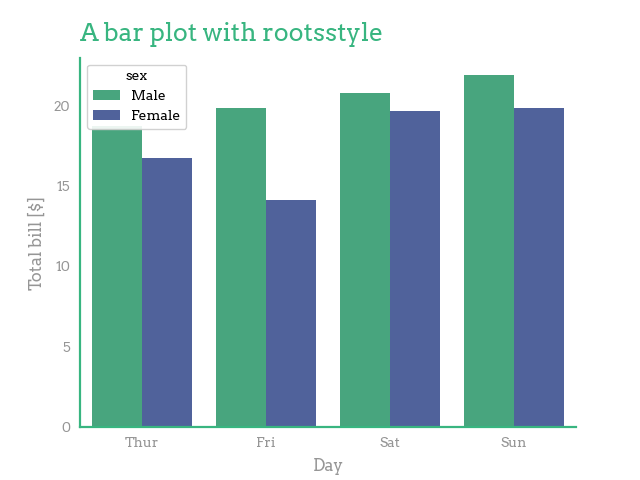
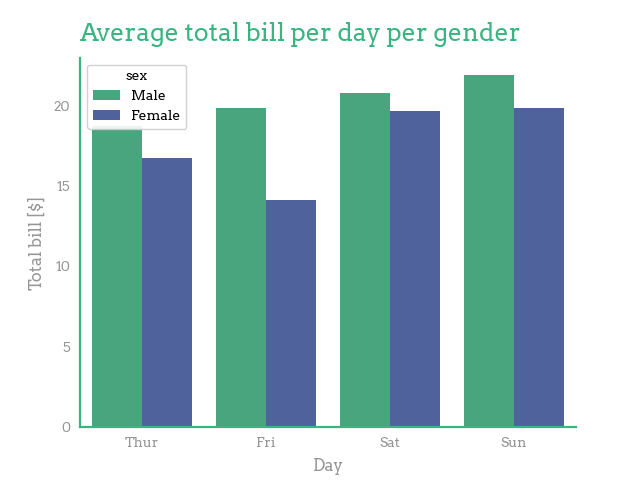
Updated ci.yml and the README

Changed region(s): [[0.1562, 0.0312, 0.8125, 0.0938]]

diff --git a/tests/test_rootsstyle.py b/tests/test_rootsstyle.py
@@ -1,12 +1,11 @@
 import rootsstyle
 import numpy as np
 import matplotlib.pyplot as plt
-import pandas as pd
 import seaborn as sns
 
 
 def test_version():
-    assert rootsstyle.__version__ == "0.1.2"
+    assert rootsstyle.__version__ == "0.1.0"
 
 
 nb_series = 4
@@ -36,7 +35,7 @@ def test_barplot_seaborn():
 
     with plt.style.context(rootsstyle.style):
         sns.barplot(x="day", y="total_bill", hue="sex", data=tips)
-        plt.title("A bar plot with rootsstyle")
+        plt.title("Average total bill per day per gender")
         plt.xlabel("Day")
         plt.ylabel("Total bill [$]")
         assert plt.gcf().number == 1
@@ -48,14 +47,14 @@ def test_lineplot_seaborn():
     tips = (
         sns.load_dataset("tips")
         .groupby(["day"])["total_bill", "tip"]
-        .mean()
+        .sum()
         .reset_index()
     )
 
     with plt.style.context(rootsstyle.style):
         sns.lineplot(x="day", y="total_bill", data=tips)
         sns.lineplot(x="day", y="tip", data=tips)
-        plt.title("A line plot with rootsstyle")
+        plt.title("Total income per day")
         plt.legend(["total bill", "tip"], labelcolor="linecolor")
         plt.xlabel("Day")
         plt.ylabel("USD")
@@ -66,10 +65,9 @@ def test_lineplot_seaborn():
 
 def test_violin_plot():
     tips = sns.load_dataset("tips")
-
     with plt.style.context(rootsstyle.style):
         sns.violinplot(x="day", y="total_bill", hue="smoker", data=tips)
-        plt.title("A violin plot with rootsstyle")
+        plt.title("Tip distribution per day")
         plt.xlabel("Day")
         plt.ylabel("USD")
         assert plt.gcf().number == 1

diff --git a/rootsstyle/__init__.py b/rootsstyle/__init__.py
@@ -1,4 +1,4 @@
 from .__main__ import style
 
-__version__ = "0.1.2"
+__version__ = "0.1.0"
 __all__ = ["style"]

diff --git a/README.md b/README.md
@@ -1,3 +1,5 @@
+[![maintained by dataroots](https://img.shields.io/badge/maintained%20by-dataroots-%2300b189)](https://dataroots.io)
+ ![](https://media-exp1.licdn.com/dms/image/C4D1BAQFJFecNiY6xNA/company-background_10000/0/1606894615032?e=1628604000&v=beta&t=hNYzs9y3EA-620Ck8ip1QaZc77eXlH1ZUl-E-sLI6wo "Logo")
 [![codecov](https://codecov.io/gh/datarootsio/rootsstyle/branch/main/graph/badge.svg?token=4agmmGuhtu)](https://codecov.io/gh/datarootsio/rootsstyle)
 
 # rootstheme
@@ -5,10 +7,34 @@
 A dataroots inspired style for Matplotlib. Works with any visualization tools that builds upon Matplotlib (seaborn, pandas).
 
 <div style="display: flex;">
-    <img src="images/barplot.png" style="height: 300px;">
     <img src="images/scatterplot.png" style="height: 300px;">
+    <img src="images/barplot.png" style="height: 300px;">
 </div>
 <div style="display: flex;">
     <img src="images/lineplot.png" style="height: 300px;">
     <img src="images/violinplot.png" style="height: 300px;">
 </div>
+
+
+## Installation
+
+```
+pip install -i https://test.pypi.org/simple/ rootsstyle==0.1.0
+```
+
+## Usage
+
+```python
+import rootsstyle
+import matplotlib.pyplot as plt
+
+# globally
+plt.style.use(rootsstyle.style)
+
+# within context manager
+with plt.style.context(rootsstyle.style):
+    # ...
+```
+
+
+
